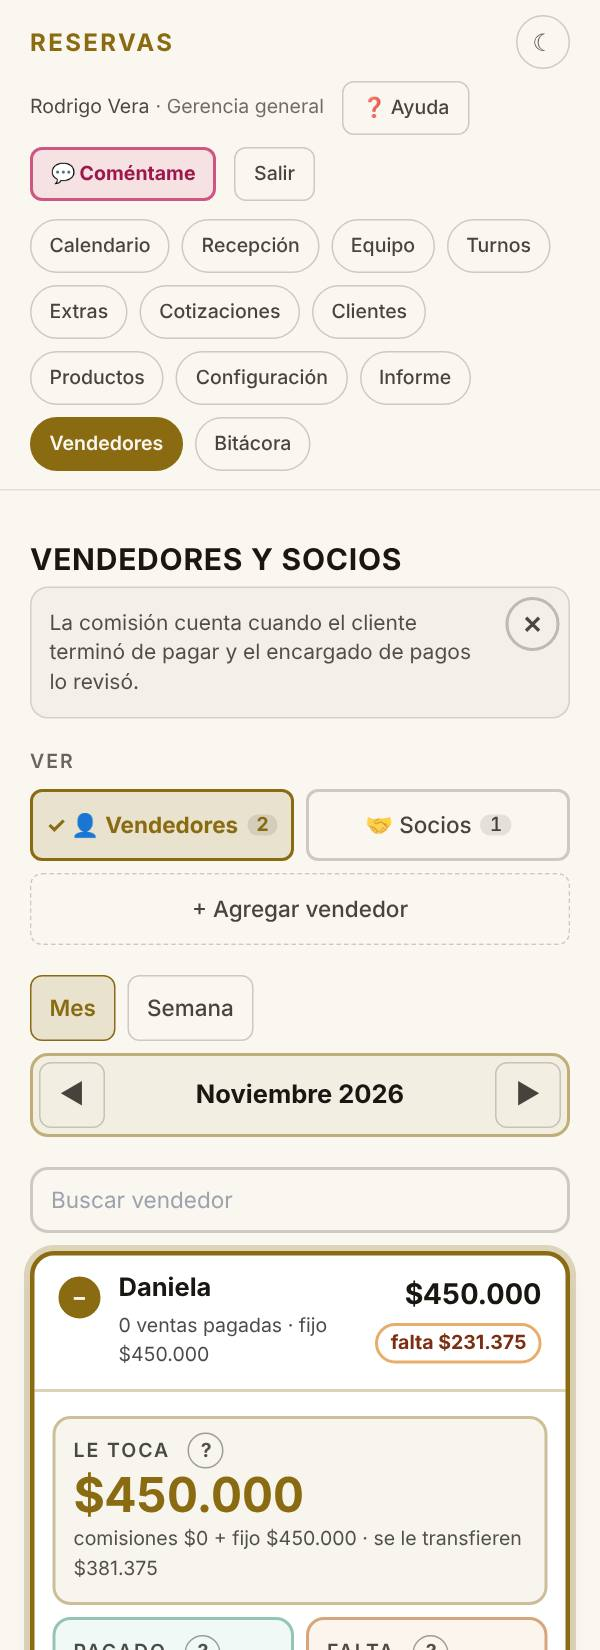
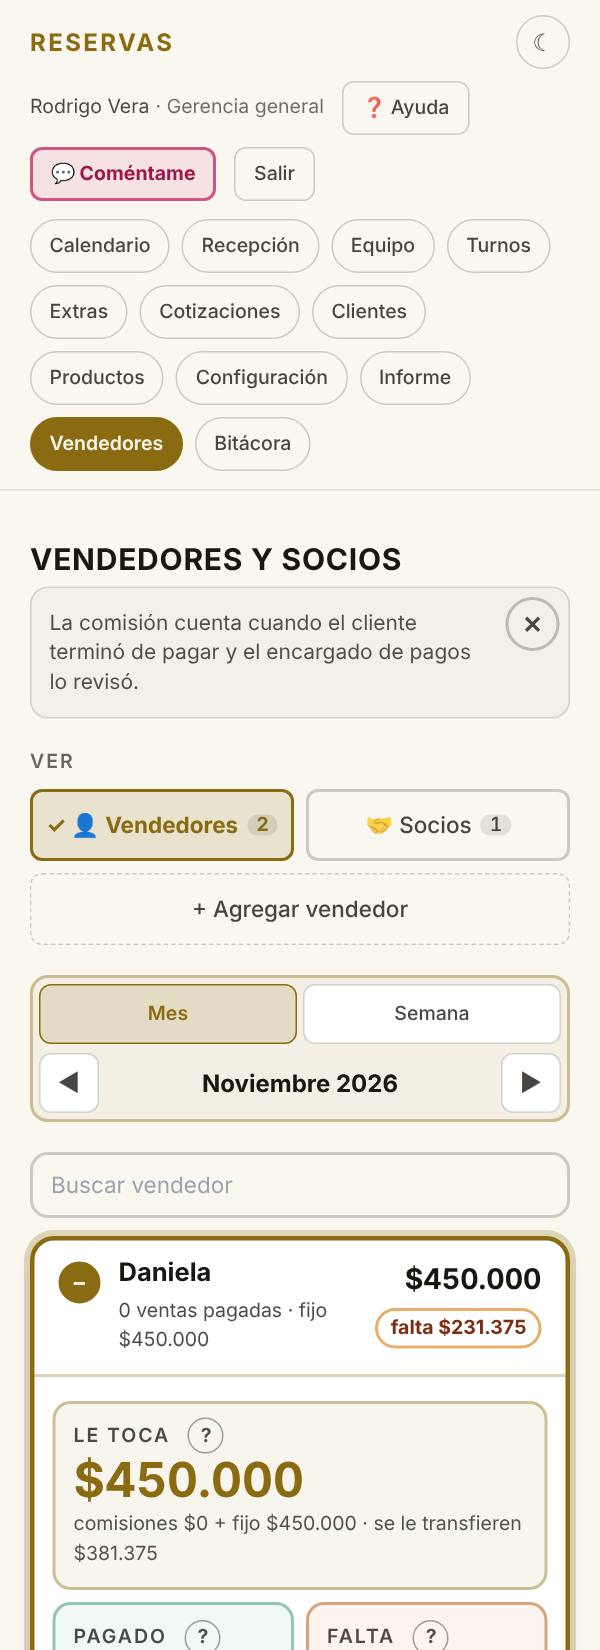
Vendedores: el periodo, con la misma pieza
Regla "un cambio de diseño se lleva a sus parecidos": Vendedores tenía el
mismo dibujo que la Lista antes del cambio (de ahí se copió), Mes · Semana
sueltos y el mes con ◀ ▶ en otra caja. Ahora usa ElegirPeriodo, sin "por
qué fecha". Sus botones quedan en 13px y 40px, como en las otras dos.

Ayuda: el ? de Vendedores dice "en el marco dorado"; fotos rehechas
(ven-resumen, pag-vendedores, ger-vendedores). El Informe no se toca: usa
un desplegable y se le pregunta al cliente.

Claude-Session: https://claude.ai/code/session_01SbCpLXRLiAYNdagAaPDDb9

Changed region(s): [[0.03, 0.5873, 0.96, 1.0], [0.63, 0.5873, 0.81, 0.6182]]

diff --git a/panel/src/components/ResumenVendedor.tsx b/panel/src/components/ResumenVendedor.tsx
@@ -41,6 +41,7 @@ import AyudaCorta from './AyudaCorta';
 import { Pastilla } from './Pastilla';
 import MostrarDesactivados from './MostrarDesactivados';
 import AgregarVendedor from './AgregarVendedor';
+import ElegirPeriodo from './ElegirPeriodo';
 import CamposDocumento, { type CambioDocumento } from './CamposDocumento';
 import Dialogo from './Dialogo';
 import { avisar, copiarConAviso } from './AvisoFlotante';
@@ -755,19 +756,15 @@ export default function ResumenVendedor({ esVendedor }: { esVendedor: boolean })
 
       {/* 2. Cuándo, una vez para toda la lista. */}
       <div className="flex w-full flex-wrap items-center gap-2">
-        <div className="flex gap-2" role="group" aria-label="Periodo">
-          {([['Mes', true, datos.hoy.slice(0, 7)], ['Semana', false, semanaDe(datos.hoy)]] as const).map(([rotulo, mes, p]) => (
-            <button key={rotulo} type="button" aria-pressed={esMes === mes} onClick={() => irA(p)}
-              className={`boton !min-h-[44px] !text-[15px] ${esMes === mes ? 'border-oro bg-oro/15 font-semibold text-oro' : ''}`}>{rotulo}</button>
-          ))}
-        </div>
-        <div className="flex min-w-[15rem] flex-1 items-center gap-2 rounded-xl border-2 border-oro/50 bg-oro/[0.06] p-1 sm:w-72 sm:flex-none">
-          <button type="button" aria-label="Periodo anterior" className="boton h-11 w-11 shrink-0 !p-0 text-[18px]"
-            onClick={() => irA(esMes ? moverMes(periodo, -1) : sumarDias(semanaDe(periodo), -7))}>◀</button>
-          <span className="min-w-0 flex-1 truncate text-center text-[17px] font-bold first-letter:uppercase">{tituloPeriodo}</span>
-          <button type="button" aria-label="Periodo siguiente" className="boton h-11 w-11 shrink-0 !p-0 text-[18px]"
-            onClick={() => irA(esMes ? moverMes(periodo, 1) : sumarDias(semanaDe(periodo), 7))}>▶</button>
-        </div>
+        {/* **El periodo en un marco** (2026-11-22): *Mes · Semana* y ◀ el mes ▶
+            juntos, la misma pieza de Cotizaciones → *Lista* y Estadísticas.
+            Antes los botones iban sueltos y el mes en otra caja. */}
+        <ElegirPeriodo
+          modos={[{ clave: 'mes', rotulo: 'Mes' }, { clave: 'semana', rotulo: 'Semana' }]}
+          modo={esMes ? 'mes' : 'semana'}
+          onModo={(m) => irA(m === 'mes' ? datos.hoy.slice(0, 7) : semanaDe(datos.hoy))}
+          titulo={tituloPeriodo}
+          onMover={(n) => irA(esMes ? moverMes(periodo, n) : sumarDias(semanaDe(periodo), 7 * n))} />
         {/* **En el computador el buscador va en esta fila**, al lado del
             periodo (2026-11-21, el computador más compacto: eran tres filas de
             controles). En el celular sigue en la suya, sobre la lista. Es el

diff --git a/panel/src/lib/ayudas.ts b/panel/src/lib/ayudas.ts
@@ -488,7 +488,8 @@ export const AYUDAS: Record<string, Ayuda> = {
       'Arriba elige qué mirar: Vendedores o Socios comerciales. Ahí mismo '
       + 'está + Agregar vendedor (crea su cuenta) o + Agregar socio comercial, '
       + 'con su documento y su transferencia de una vez.',
-      'Elige mes o semana y muévete con las flechas: vale para toda la lista.',
+      'En el marco dorado elige mes o semana y muévete con las flechas: vale '
+      + 'para toda la lista.',
       'Cada persona es una tarjeta: cerrada dice cuánto le toca en el periodo '
       + 'y si está pagado. Busca por nombre si son muchas.',
       'Ábrela con el +: los azulejos dicen cuánto toca, cuánto se pagó y '

diff --git a/panel/src/components/ElegirPeriodo.tsx b/panel/src/components/ElegirPeriodo.tsx
@@ -17,8 +17,9 @@
  * repetía lo que ya decían los botones. **En el celular** cada parte ocupa
  * una fila entera, con los botones parejos: sin huecos a la derecha.
  *
- * La usan la Lista de cotizaciones (`ListaCotizaciones`) y Estadísticas
- * (`Estadisticas`): un cambio llega a las dos.
+ * La usan la Lista de cotizaciones (`ListaCotizaciones`), Estadísticas
+ * (`Estadisticas`) y Vendedores (`ResumenVendedor`): un cambio llega a las
+ * tres.
  */
 import type { ReactNode } from 'react';
 

diff --git a/panel/CLAUDE.md b/panel/CLAUDE.md
@@ -163,7 +163,7 @@ revisan antes de cada cambio en esta carpeta.
   | Varios campos de una ficha, en columnas que calzan | `rejilla-campos` dentro de una `caja-campos`, y `fila-ficha` con su `rotulo-ficha` (`globals.css`); los datos de la transferencia, `DatosBancarios` |
   | Una ventana | `Dialogo`: en el computador parte arriba y admite algo en la línea del título (`alLado`) |
   | Cuál planilla se va a tocar, y si es producción o una versión de prueba | `CualBase` (*Dejar la base en cero* e *Importar del CRM*) |
-  | Elegir el periodo —mes, semana, día, todo o dos fechas—, moverse con ◀ ▶ y por qué fecha se cuenta | `ElegirPeriodo`: un marco dorado con las tres cosas juntas (Cotizaciones → *Lista* y Estadísticas) |
+  | Elegir el periodo —mes, semana, día, todo o dos fechas—, moverse con ◀ ▶ y por qué fecha se cuenta | `ElegirPeriodo`: un marco dorado con las tres cosas juntas (Cotizaciones → *Lista*, Estadísticas y Vendedores) |
   | Un número grande con su nombre, su nota y su comparación (en carrera, cotizado, reservas, ocupación…) | `TarjetaNumero` (Cotizaciones → *Lista*, Estadísticas de reservas y del equipo) |
   | Dar por caída una cotización: el motivo y la confirmación | `SeCayo`, con `✕ Se cayó…` en la ventana de cotizar (en todos los pasos), al lado de cada fila de la lista y en *Esperando respuesta* |
   | Corregir un día cerrado: el aviso de arriba y el pie con la lista de cambios y la casilla | `AvisoCierre` y `PieCorreccion` de `Correccion`, con `lib/correccion.ts`. El pie se acomoda con `modo`: `fila` (la ventana del equipo), `dosFilas` (el formulario de una reserva) y `apilado` (borrar una reserva, y guardar una cotización ganada) |
@@ -213,7 +213,7 @@ revisan antes de cada cambio en esta carpeta.
   ¿cambió algo que una ayuda describe?** Y si se creó una ventana o una
   ficha, **¿está en `ESCENAS` de `pruebas/ventanas.mjs`?**
 
-## El periodo en un marco: Cotizaciones → Lista y Estadísticas (2026-11-22)
+## El periodo en un marco: Cotizaciones → Lista, Estadísticas y Vendedores (2026-11-22)
 
 Lo pidió el cliente con dos fotos de Cotizaciones → *📋 Lista*: *"por
 defecto debería estar puesto mes… todos, otra opción, y semanal, otra opción,
@@ -242,8 +242,15 @@ Y la Lista partía en *Todo*.
   las flechas, con cuántos días son. En la vista *👥 Equipo* no hay *por qué
   fecha*: el marco lleva solo el periodo. *Todo · Visitas · Eventos* sube a la
   fila de *Volver* y *Reservas / Equipo*, a la derecha.
-- **Se fue *Mostrando: …***, en las dos pantallas: lo dicen el marco y los
-  botones elegidos.
+- **Vendedores también**, en el mismo PR (regla *un cambio de diseño se
+  lleva a sus parecidos*): tenía el mismo dibujo que la Lista antes del
+  cambio —de ahí se había copiado—, *Mes · Semana* sueltos y el mes con ◀ ▶
+  en otra caja. Ahora es la misma pieza, sin *por qué fecha*. Sus botones
+  bajan de 15 a 13px de letra y de 44 a 40px de alto, como en las otras dos.
+  **El Informe no se tocó**: elige el periodo con un desplegable y otro uso;
+  se le preguntó al cliente.
+- **Se fue *Mostrando: …***, en la Lista y en Estadísticas: lo dicen el marco
+  y los botones elegidos.
 - **`TarjetaNumero`, más compacta** (en las tres pantallas que la usan): 8px
   de relleno arriba y abajo (eran 12), el número a 22px (era 24) y el botón de
   40px (era 44). Ninguna letra baja de 13px.
@@ -257,8 +264,9 @@ Y la Lista partía en *Todo*.
 - **`npm run ventanas`**: la vista medida de la Lista pasó a ser *Todo* (la
   de *Mes* es la que abre), y se suma *Estadísticas → Personalizado*. Son 19
   pantallas.
-- **Ayuda**: el `?` de Cotizaciones y el de Estadísticas describen el marco.
-  Ninguna foto de las misiones muestra estas cabeceras.
+- **Ayuda**: el `?` de Cotizaciones, el de Estadísticas y el de Vendedores
+  describen el marco. Se rehicieron las fotos de Vendedores (`ven-resumen`,
+  `pag-vendedores`, `ger-vendedores`); ninguna otra muestra estas cabeceras.
 - **Lecturas de Google**: ninguna. **Ningún permiso cambió.**
 
 ## *✕ Se cayó…*: dar por perdida una cotización en un toque (2026-11-22)

diff --git a/TRASPASO.md b/TRASPASO.md
@@ -151,8 +151,8 @@ conversación: hay que preguntarlo o mirarlo antes de darlo por hecho.
 - **PR #308, mergeado el 22-11-2026** con el *"mergea"* del cliente: **✕ Se
   cayó…**, dar por perdida una cotización con su motivo, desde cualquier paso,
   la lista o *Esperando respuesta*. Ver `panel/CLAUDE.md`.
-- **El periodo en un marco** (22-11-2026, en preview): en Cotizaciones →
-  *Lista* y en Estadísticas, el periodo, ◀ ▶ y por qué fecha van juntos en
+- **El periodo en un marco** (22-11-2026, en preview, PR #309): en
+  Cotizaciones → *Lista*, en Estadísticas y en Vendedores, el periodo, ◀ ▶ y por qué fecha van juntos en
   un marco dorado (`ElegirPeriodo`); la Lista parte en el mes en curso, se fue
   la frase *Mostrando: …* y las tarjetas de números son más compactas. Ver
   `panel/CLAUDE.md`, "El periodo en un marco".
